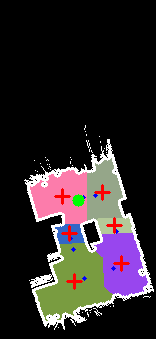
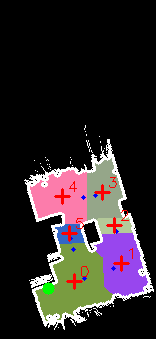
we modify the algo, now point is in sort

diff --git a/brickpick/map_partitioner.py b/brickpick/map_partitioner.py
@@ -340,45 +340,102 @@ class MapPartitioner:
         print(f"  -> Merged into {self.final_num_regions} final regions (Respecting {self.max_region_radius}m radius limit).")
     
     def step5_calculate_centers(self):
-        """第五步：计算可达中心点"""
-        print("Step 5: Calculating reachable centers...")
+        """第五步：计算可达中心点，并求解连贯的巡回路径 (TSP 贪心最近邻)"""
+        print("Step 5: Calculating reachable centers and solving TSP...")
         self.reachable_centers = []
         regions_props = ndimage.find_objects(self.final_labels)
         
+        # 1. 先收集所有有效的候选中心点 (暂不排序)
+        raw_centers = []
         for sl in range(1, self.final_num_regions + 1):
             slice_obj = regions_props[sl-1]
+            if slice_obj is None: continue
             y_coords, x_coords = np.where(self.final_labels[slice_obj] == sl)
             
-            # 1. 计算几何中心 (质心)
             cy = int(np.mean(y_coords) + slice_obj[0].start)
             cx = int(np.mean(x_coords) + slice_obj[1].start)
             
-            # 2. 可达性验证
             path = self._astar(self.home_pixel, (cy, cx), self.free_mask)
-            if path is not None:
-                self.reachable_centers.append((cy, cx))
-            else:
-                # 3. 修正：沿 Home 到中心点的方向线回退搜索
+            
+            if path is None:
                 direction_y = cy - self.home_pixel[0]
                 direction_x = cx - self.home_pixel[1]
                 length = math.sqrt(direction_y**2 + direction_x**2)
-                if length == 0: continue
+                if length > 0:
+                    for step in np.linspace(0, length, num=int(length)):
+                        test_y = int(self.home_pixel[0] + (direction_y / length) * step)
+                        test_x = int(self.home_pixel[1] + (direction_x / length) * step)
+                        test_y, test_x = self._clamp_to_free(test_y, test_x)
+                        
+                        if self.final_labels[test_y, test_x] == sl:
+                            test_path = self._astar(self.home_pixel, (test_y, test_x), self.free_mask)
+                            if test_path is not None:
+                                path = test_path
+                                cy, cx = test_y, test_x
+                                break
+            
+            if path is not None:
+                raw_centers.append((cy, cx))
+            else:
+                print(f"    -> Warning: Region {sl} center unreachable, skipped.")
+
+        n = len(raw_centers)
+        if n == 0:
+            return
+
+        # ================= 核心新增：贪心 TSP =================
+        print(f"  -> Found {n} valid centers. Calculating pairwise distances for TSP...")
+        
+        # 2. 构建点对点距离矩阵 (N x N)
+        dist_matrix = [[0.0] * n for _ in range(n)]
+        for i in range(n):
+            for j in range(i + 1, n):
+                path = self._astar(raw_centers[i], raw_centers[j], self.free_mask)
+                d = len(path) if path else float('inf')
+                dist_matrix[i][j] = d
+                dist_matrix[j][i] = d
                 
-                found = False
-                for step in np.linspace(0, length, num=int(length)):
-                    test_y = int(self.home_pixel[0] + (direction_y / length) * step)
-                    test_x = int(self.home_pixel[1] + (direction_x / length) * step)
-                    test_y, test_x = self._clamp_to_free(test_y, test_x)
+        # 3. 计算 Home 到所有点的距离
+        home_dists = []
+        for i in range(n):
+            path = self._astar(self.home_pixel, raw_centers[i], self.free_mask)
+            home_dists.append(len(path) if path else float('inf'))
+            
+        # 4. 执行最近邻贪心搜索 (从 Home 出发)
+        visited = [False] * n
+        ordered_centers = []
+        current_idx = -1  # -1 表示当前在 Home
+        total_path_cost = 0
+        
+        for _ in range(n):
+            best_next_idx = -1
+            best_next_dist = float('inf')
+            
+            # 寻找离当前点最近的未访问点
+            for i in range(n):
+                if visited[i]:
+                    continue
                     
-                    # 确保测试点仍然在当前区域内
-                    if self.final_labels[test_y, test_x] == sl:
-                        test_path = self._astar(self.home_pixel, (test_y, test_x), self.free_mask)
-                        if test_path is not None:
-                            self.reachable_centers.append((test_y, test_x))
-                            found = True
-                            break
-                if not found:
-                    print(f"    -> Warning: Region {sl} center unreachable, skipped.")
+                if current_idx == -1:  # 当前在Home
+                    d = home_dists[i]
+                else:                 # 当前在某个中心点
+                    d = dist_matrix[current_idx][i]
+                    
+                if d < best_next_dist:
+                    best_next_dist = d
+                    best_next_idx = i
+                    
+            if best_next_idx == -1:
+                break  # 防止意外死循环
+                
+            visited[best_next_idx] = True
+            ordered_centers.append(raw_centers[best_next_idx])
+            total_path_cost += best_next_dist
+            current_idx = best_next_idx  # 移动到下一个点
+            
+        self.reachable_centers = ordered_centers
+        print(f"  -> TSP routing complete. Total estimated path cost: {total_path_cost:.0f} pixels.")
+        # ===============================================
 
     def _clamp_to_free(self, y, x):
         """将越界或落在障碍物上的点修正到最近的自由空间点"""
@@ -437,9 +494,13 @@ class MapPartitioner:
         cv2.circle(vis_img, (self.home_pixel[1], self.home_pixel[0]), 6, (0, 255, 0), -1)
         
         # 画可达中心点 (红色，带十字)
-        for cy, cx in self.reachable_centers:
+        # 在 save_results 方法中，绘制中心点的地方修改：
+        for i, (cy, cx) in enumerate(self.reachable_centers):
+            # 画标记
             cv2.drawMarker(vis_img, (cx, cy), (0, 0, 255), markerType=cv2.MARKER_CROSS, markerSize=15, thickness=2)
-            
+            # 新增：在坐标旁边写上序号 (0, 1, 2...)
+            cv2.putText(vis_img, str(i), (cx + 5, cy - 5), cv2.FONT_HERSHEY_SIMPLEX, 0.5, (0, 0, 255), 1)
+        
         cv2.imwrite(output_img_path, vis_img)
         
         # 2. 保存坐标 (世界坐标系)
@@ -539,7 +600,7 @@ if __name__ == "__main__":
     # 设置 Home 点 (像素坐标: 行, 列)
     # 通常在地图底部中间找一块空地
     # home_py, home_px = partitioner.world_to_pixel(home_world_x + 0.5, home_world_y + 0.5)
-    home_py, home_px = 200, 78 
+    home_py, home_px = 288, 48 
 
     print(f"Origin from YAML: {partitioner.origin[:2]}")
     print(f"Calculated Home Pixel: {home_py, home_px}")
